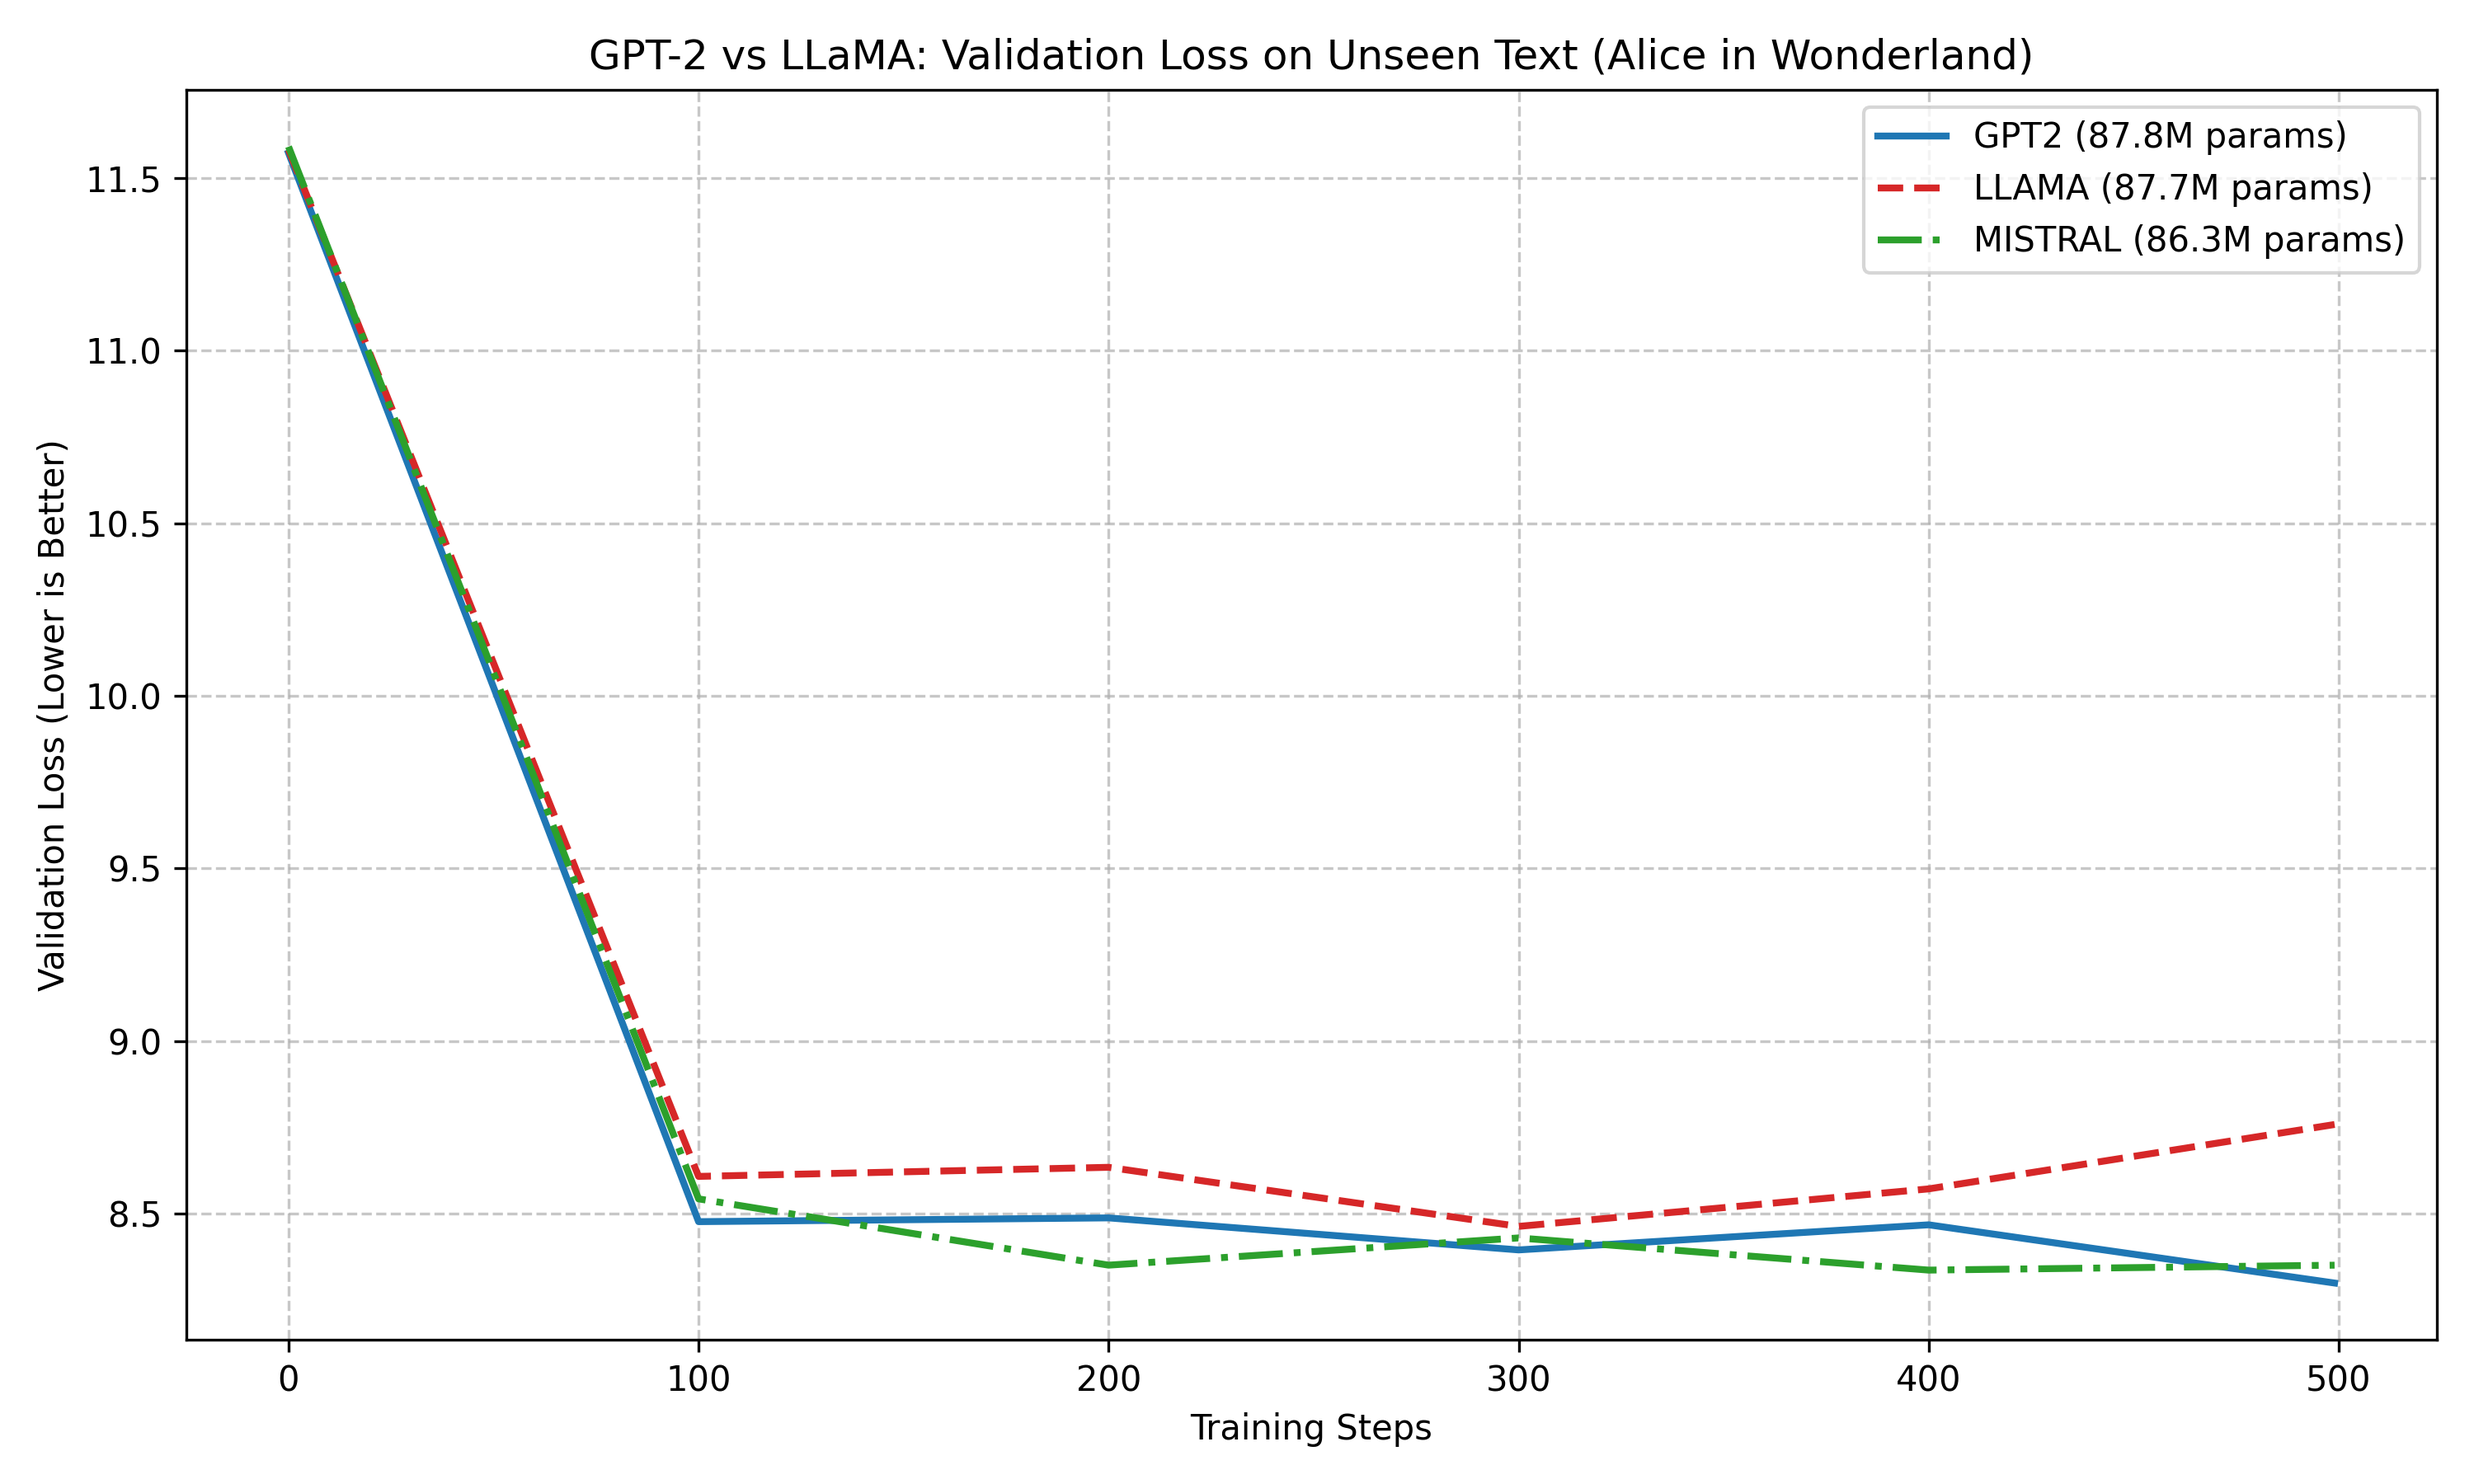
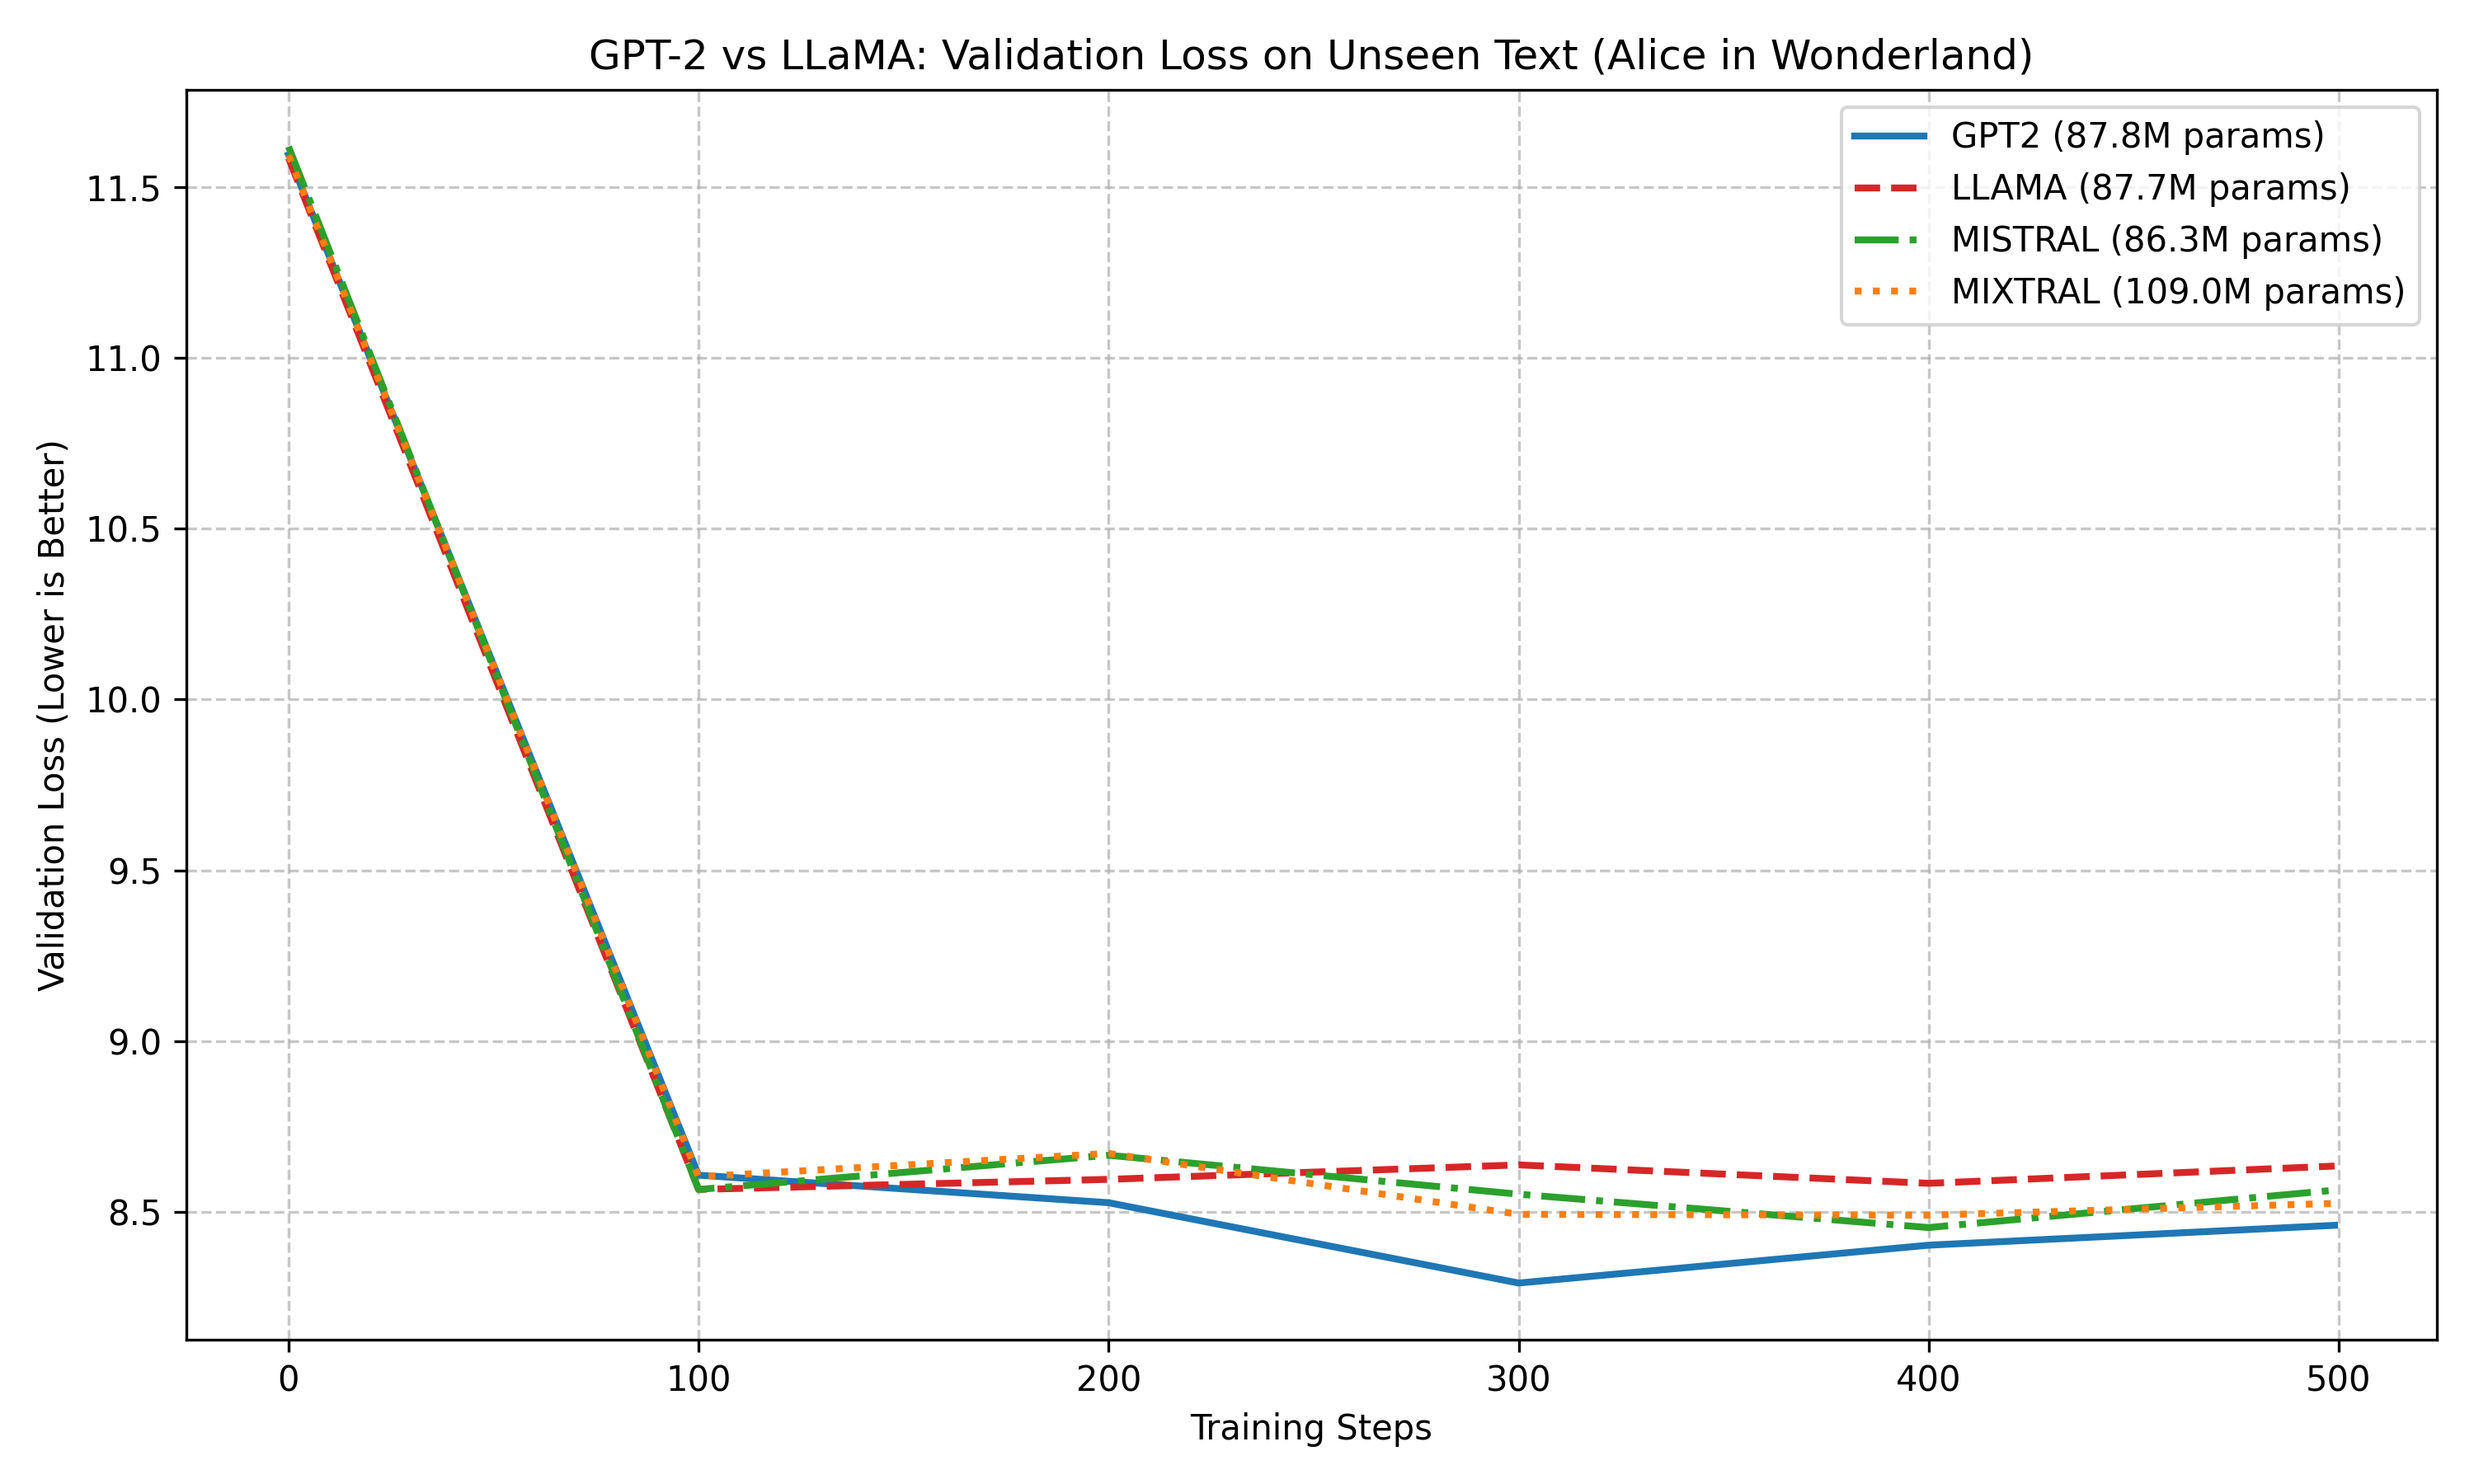
benchmark 4 models

diff --git a/benchmarks/run_arena.py b/benchmarks/run_arena.py
@@ -117,11 +117,16 @@ if __name__ == '__main__':
     from model_mistral.step2_gpt import GPTLanguageModel as Mistral
     mistral_results = run_benchmark(Mistral, "mistral", test_data)
 
-    # 5. Save Scorecard
+    # 5. Run Mixtral Benchmark
+    from model_mixtral.step2_gpt import GPTLanguageModel as Mixtral
+    mixtral_results = run_benchmark(Mixtral, "mixtral", test_data)
+
+    # 6. Save Scorecard
     scorecard = {
         "gpt2": gpt2_results,
         "llama": llama_results,
-        "mistral": mistral_results
+        "mistral": mistral_results,
+        "mixtral": mixtral_results
     }
     
     save_path = os.path.join(current_dir, 'results', 'benchmark_results.json')

diff --git a/benchmarks/plot_curves.py b/benchmarks/plot_curves.py
@@ -31,8 +31,10 @@ def plot_benchmark():
             color, style = '#1f77b4', '-'  # Blue solid
         elif model_name == 'llama':
             color, style = '#d62728', '--' # Red dashed
+        elif model_name == 'mistral':
+            color, style = '#2ca02c', '-.' # Green dash-dot
         else:
-            color, style = '#2ca02c', '-.' # Green dash-dot (Mistral/Mixtral)
+            color, style = '#ff7f0e', ':'  # Orange dotted (Mixtral)
         
         # Add a rich label with parameter counts
         label = f"{model_name.upper()} ({results['parameters']/1e6:.1f}M params)"

diff --git a/model_mixtral/step2a1c_moe.py b/model_mixtral/step2a1c_moe.py
@@ -55,7 +55,7 @@ class SparseMoE(nn.Module):
             for expert_idx, expert in enumerate(self.experts):
                 # Find the words that were assigned to THIS specific expert
                 # The _ says "I don't care about the true/false list, just give me the raw positions"
-                _, word_positions = torch.where(expert_ids_for_this_slot == expert_idx)
+                word_positions = torch.where(expert_ids_for_this_slot == expert_idx)[0]
                 
                 # If anyone was assigned to this expert...
                 if len(word_positions) > 0:

diff --git a/config.py b/config.py
@@ -8,6 +8,8 @@ model_version = 'mistral'
 n_kv_heads = 1 # Number of Key/Value heads (Must divide evenly into n_head)
 
 # --- Mixtral (MoE) Specific Hyperparameters ---
+n_experts = 4 # Total number of SwiGLU Experts in each layer
+num_experts_per_tok = 2 # How many Experts handle each word
 
 # Hyperparameters based on standard character-level GPT
 batch_size = 8 # shrunk to fit MPS memory
